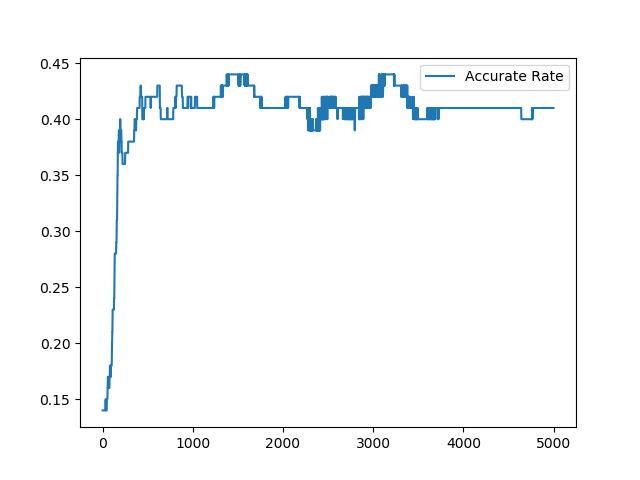
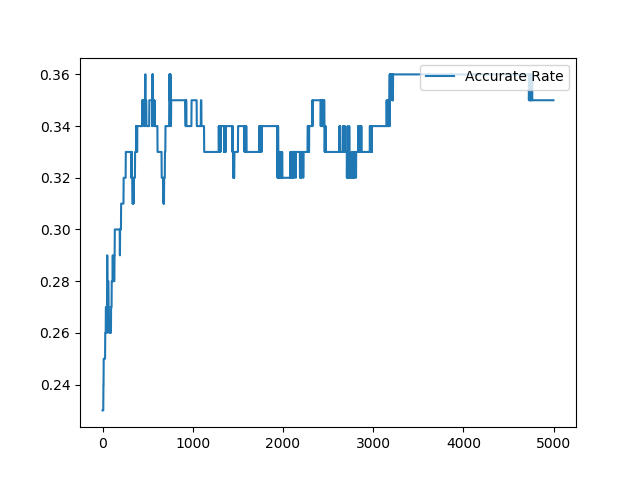
20190912

diff --git a/nn_attention_train.py b/nn_attention_train.py
@@ -28,21 +28,18 @@ import sklearn
 from sklearn.decomposition import PCA
 
 from neural_network import Attention_Net
+from neural_network import Linear_Net
 from datasets import FoodDataset
 
 
 ########################### FUNCTIONS
-
 def match_output(output,label):
-
     #print(torch.max(output).item())
     #print(output[0].dot(label[0]).item())
     if torch.max(output).item() == output[0].dot(label[0]).item():
         return 1
     else:
         return 0
-    
-    
 
 ########################### PARAMS
 #Constant
@@ -54,13 +51,13 @@ L2 = "L2"
 MSE = "MSE"
 WD = "000001"
 ATTENTION = "attention_net"
+LINEAR = "linear_net"
 RELU = "relu"
 SIGMOID = "sigmoid"
-
 DATE = "201909010"
 
 ## TRAIN PARAMS
-NET = ATTENTION
+NET = LINEAR
 BATCH_SIZE = 10
 LEARNING_RATE = 0.05
 WEIGHT_DECAY = torch.tensor(0.000001).float()
@@ -74,7 +71,6 @@ ACT = SIGMOID
 OPTIMIZER = SGD
 BETAS = (0.9,0.999)
 LOSS = MSE
-
 
 
 if __name__ == '__main__':
@@ -120,6 +116,8 @@ if __name__ == '__main__':
 
     if NET == ATTENTION:
         net = Attention_Net(dataset, params, activation = ACT)
+    elif NET == LINEAR:
+        net = Linear_Net(dataset, params = FEATURE_DIM, activation = ACT)
 
     ## OPTIMIZER
     if OPTIMIZER == SGD:
@@ -159,7 +157,7 @@ if __name__ == '__main__':
                 for dist in dist_origin:
                     dist_list.append(list(dist.detach().numpy()))
             elif NET == LINEAR:
-                out = net.forward(im)
+                out = net.forward(im,mode="train")
 
             mse_loss = loss_function(out, label)
 
@@ -189,6 +187,11 @@ if __name__ == '__main__':
                 output_array = list(out.detach().numpy())
                 test_output_list.append(output_array)
                 accurate_number += match_output(out,label)
+            elif NET == LINEAR:
+                out = net.forward(im,mode="valid")
+                output_array = list(out.detach().numpy())
+                test_output_list.append(output_array)
+                accurate_number += match_output(out,label)
 
             mse_loss = loss_function(out, label)
             test_loss_list_each_epoch.append(mse_loss.item())
@@ -210,7 +213,7 @@ if __name__ == '__main__':
         print(info2)
         if NET == ATTENTION:
             info3 = "Epoch: " + str(epoch) + " , Distribution: " + str(dist_origin)
-        print(info3)
+            print(info3)
         info4 = "Epoch: " + str(epoch) + " , Accurate Rate: " + str(accurate_rate)
         print(info4)
 
@@ -241,34 +244,35 @@ if __name__ == '__main__':
 
     ##### TEST
 
-    pca = PCA(n_components = 'mle')
-    pca.fit(dist_list)
+    if NET == ATTENTION:
+        pca = PCA(n_components = 'mle')
+        pca.fit(dist_list)
     
-    feature = pca.transform(dist_list)
-    print(pca.explained_variance_ratio_)
+        feature = pca.transform(dist_list)
+        print(pca.explained_variance_ratio_)
     
-    figure = "PCA_train"
-    plt_file = plot_path + str(extra) + "_" + str(figure) + ".png"
-    plt.scatter(feature[:,0], feature[:,1])
-    plt.grid()
-    plt.xlim(-1,1)
-    plt.ylim(-1,1)
-    plt.savefig(plt_file)
-    plt.close('all')
+        figure = "PCA_train"
+        plt_file = plot_path + str(extra) + "_" + str(figure) + ".png"
+        plt.scatter(feature[:,0], feature[:,1])
+        plt.grid()
+        plt.xlim(-1,1)
+        plt.ylim(-1,1)
+        plt.savefig(plt_file)
+        plt.close('all')
 
-    pca_valid = PCA(n_components = 'mle')
-    pca_valid.fit(valid_dist_list)
-    valid_feature = pca_valid.transform(valid_dist_list)
-    print(pca_valid.explained_variance_ratio_)
+        pca_valid = PCA(n_components = 'mle')
+        pca_valid.fit(valid_dist_list)
+        valid_feature = pca_valid.transform(valid_dist_list)
+        print(pca_valid.explained_variance_ratio_)
 
-    figure = "PCA_valid"
-    plt_file = plot_path + str(extra) + "_" + str(figure) + ".png"
-    plt.scatter(valid_feature[:,0], valid_feature[:,1])
-    plt.grid()
-    plt.xlim(-1,1)
-    plt.ylim(-1,1)
-    plt.savefig(plt_file)
-    plt.close('all')
+        figure = "PCA_valid"
+        plt_file = plot_path + str(extra) + "_" + str(figure) + ".png"
+        plt.scatter(valid_feature[:,0], valid_feature[:,1])
+        plt.grid()
+        plt.xlim(-1,1)
+        plt.ylim(-1,1)
+        plt.savefig(plt_file)
+        plt.close('all')
 
 
     
@@ -276,10 +280,12 @@ if __name__ == '__main__':
     with open(train_log_path,"w") as log_f:
         log_f.write(info1 + "\r\n")
         log_f.write(info2 + "\r\n")
-        log_f.write(info3 + "\r\n")
+        if NET == ATTENTION:
+            log_f.write(info3 + "\r\n")
         log_f.write(info4 + "\r\n")
-        log_f.write("Variance Ratio Train:" + str(pca.explained_variance_ratio_) + "\r\n")
-        log_f.write("Variance Ratio Test:" + str(pca_valid.explained_variance_ratio_) + "\r\n")
+        if NET == ATTENTION:
+            log_f.write("Variance Ratio Train:" + str(pca.explained_variance_ratio_) + "\r\n")
+            log_f.write("Variance Ratio Test:" + str(pca_valid.explained_variance_ratio_) + "\r\n")
         
         
     

diff --git a/neural_network.py b/neural_network.py
@@ -110,3 +110,82 @@ class Attention_Net(nn.Module):
             mask.append(sub_mask)
         mask = torch.from_numpy(np.array(mask)).float()
         return mask
+
+
+class Linear_Net(nn.Module):
+    def __init__(self, dataset,params = 8, activation = "sigmoid"):
+        super(Linear_Net,self).__init__()
+        self.dataset = dataset
+        self.input_dim = self.dataset.input_dim
+        self.output_dim = self.dataset.output_dim
+        self.condition_dim = self.input_dim - self.output_dim
+
+        self.feature_dim = int(params)
+        self.linear_layer1 = nn.Linear(self.input_dim, self.feature_dim)
+
+        if activation == "sigmoid":
+            self.act = nn.Sigmoid()
+        elif activation == "relu":
+            self.act = nn.ReLU(True)
+
+        
+        self.linear_layer2 = nn.Linear(self.feature_dim, self.output_dim)
+
+        init.xavier_uniform(self.linear_layer1.weight)
+        init.xavier_uniform(self.linear_layer2.weight)
+        init.normal(self.linear_layer1.bias, mean = 0, std = 1)
+        init.normal(self.linear_layer2.bias, mean = 0, std = 1)
+
+    def forward(self,x,mode = "train"):
+        #Encoder
+        inp = x
+        zero_mask = self.get_zero_mask(x)
+        x = self.linear_layer1(x)
+        x = self.act(x)
+        #Decoder
+        x = self.linear_layer2(x)
+        inf_mask = self.get_inf_mask(inp,x)
+        if mode=="valid":
+            x = x.mul(inf_mask)
+        x = F.softmax(x, dim = 1)
+        if mode=="train":
+            x = x.mul(zero_mask)
+        return x
+
+    def get_inf_mask(self,inp,x):
+        inf = float('inf')
+        x_shape = x.shape
+        #print(x_shape[0])
+        #print(x_shape[1])
+        mask = []
+        inp = inp.data.numpy()
+        x = x.data.numpy()
+        for i in range(x_shape[0]):
+            sub_mask = []
+            for j in range(x_shape[1]):
+                if inp[i][self.condition_dim + j] == 0:
+                    if x[i][j] > 0:
+                        sub_mask.append(-inf)
+                    else:
+                        sub_mask.append(inf)
+                else:
+                    sub_mask.append(1)
+            mask.append(sub_mask)
+        mask = torch.from_numpy(np.array(mask)).float()
+        #print(mask.shape)
+        #print(mask)
+        return mask
+
+    def get_zero_mask(self,x):
+        x = x.data.numpy()
+        mask = []
+        for batch in x:
+            sub_mask = []
+            for i in range(self.output_dim):
+                if batch[self.condition_dim + i] == 0:
+                    sub_mask.append(0)
+                else:
+                    sub_mask.append(1)
+            mask.append(sub_mask)
+        mask = torch.from_numpy(np.array(mask)).float()
+        return mask
